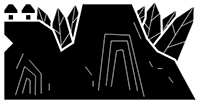
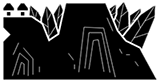
add monster

diff --git a/js/index.js b/js/index.js
@@ -1,6 +1,7 @@
 const cw = 800;
 const ch = 450;
 const scale = 0.6;
+const monsterScale = 0.7;
 const gameStart = {
     key: 'gameStart',
     preload: function(){
@@ -10,10 +11,13 @@ const gameStart = {
         this.load.image('bg4', 'images/bg/bg4.png');
         this.load.image('footer', 'images/bg/footer.png');
         this.load.image('rock1', 'images/item-level-1-rock.png');
+        this.load.image('rock2', 'images/item-level-2-smoke-sm.png');
+        this.load.image('rock3', 'images/item-level-1-branch.png');
         this.load.spritesheet('user', 'images/player.png', {frameWidth: 144, frameHeight: 120});
 
-
         this.iskeyJump = true;
+        this.monsterArr = [];    // 存放所有怪物實體
+        this.masIdx = Math.floor(Math.random() * (this.monsterArr.length - 0 + 0) + 0);
     },
     create: function(){
         this.bg4 = this.add.tileSprite(400, 225, cw, ch, 'bg4');
@@ -21,18 +25,13 @@ const gameStart = {
         this.bg2 = this.add.tileSprite(400, 225, cw, ch, 'bg2');
         this.bg1 = this.add.tileSprite(400, 225, cw, ch, 'bg1');
         this.footer = this.add.tileSprite(400, 406, 800, 90, 'footer');
-        this.rock1 = this.add.tileSprite(cw - 200, 330, 200 * 0.6, 104 * 0.6, 'rock1');
         
-
         //設定人物位置與加入物理效果
         this.player = this.physics.add.sprite(150, 150, 'user');
         this.player.setCollideWorldBounds(true); //角色邊界限制
         this.player.setBounce(1); //設定彈跳值
         this.player.setScale(scale); //設定顯示大小
         this.player.setSize(110, 120, 0); //碰撞邊界
-
-        
-        
         this.anims.create({
             key: 'run',
             frames: this.anims.generateFrameNumbers('user', { start: 0, end: 1 }),
@@ -58,15 +57,26 @@ const gameStart = {
             GameObject.body.moves = false;
         }
 
-        addPhysics(this.footer);
-        addPhysics(this.rock1);
+        const masPos = [
+            {name: 'rock1', x: cw + 200, y: 320, w: 160, h: 83},
+            {name: 'rock2', x: cw + 200, y: 315, w: 200, h: 94},
+            {name: 'rock3', x: cw + 200, y: 70, w: 130, h: 160},
+        ]
 
+        for (let i = 0; i < 6; i++) {
+            let BoolIdx = Math.floor(Math.random() * (3 - 0 + 0) + 0);
+            this['rock'+ i] = this.add.tileSprite(masPos[BoolIdx].x, masPos[BoolIdx].y, masPos[BoolIdx].w, masPos[BoolIdx].h, masPos[BoolIdx].name);
+            this['rock'+ i].isRun = false;
+            addPhysics(this['rock'+i]);
+            this.physics.add.collider(this.player, this['rock'+i]);
+            this.monsterArr.push(this['rock'+ i])
+        }
+
+        addPhysics(this.footer);
         this.physics.add.collider(this.player, this.footer);
-        this.physics.add.collider(this.player, this.rock1);
 
         //播放動畫
         this.player.anims.play('run', true);
-        
         
     },
     update: function(){
@@ -74,14 +84,24 @@ const gameStart = {
         this.bg2.tilePositionX += 2;
         this.bg1.tilePositionX += 3;
         this.footer.tilePositionX += 3;
-        // this.rock1.x -= 3;
+
+
+        this.monsterArr[this.masIdx].x -= 3;
+
+        for (let i = 0; i < this.monsterArr.length; i++) {
+            if(this.monsterArr[i].x <= -100){
+                this.monsterArr[i].x = cw + 200;
+                this.monsterArr[i].body.immovable = true;
+                this.monsterArr[i].body.moves = false;
+                this.monsterArr[i].isRun = false;
+                this.masIdx = Math.floor(Math.random() * (this.monsterArr.length - 0 + 0) + 0);
+            }
+        }
 
          // 啟動鍵盤事件
         let cursors = this.input.keyboard.createCursorKeys();
-        
         if (cursors.right.isDown) {
             this.player.setVelocityX(200);
-            // this.player.flipX = false;
             this.player.setSize(144, 120, 0); //碰撞邊界
             this.player.anims.play('speed', true);
         } else if (cursors.left.isDown) {
@@ -92,7 +112,6 @@ const gameStart = {
             this.player.setSize(110, 120, 0); //碰撞邊界
             this.player.anims.play('run', true);
         }
-
         if (cursors.up.isDown) {
             if(this.iskeyJump){
                 this.iskeyJump = false;
@@ -114,7 +133,7 @@ const config = {
             gravity: {
                 y: 450
             },
-            debug: true,
+            // debug: true,
         },
     },
     scene: [
